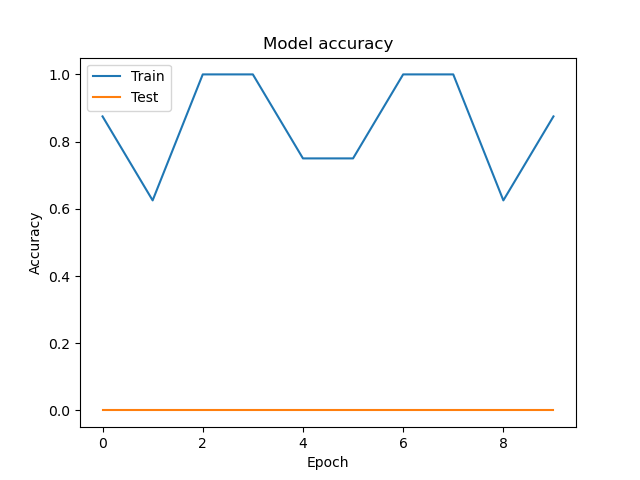
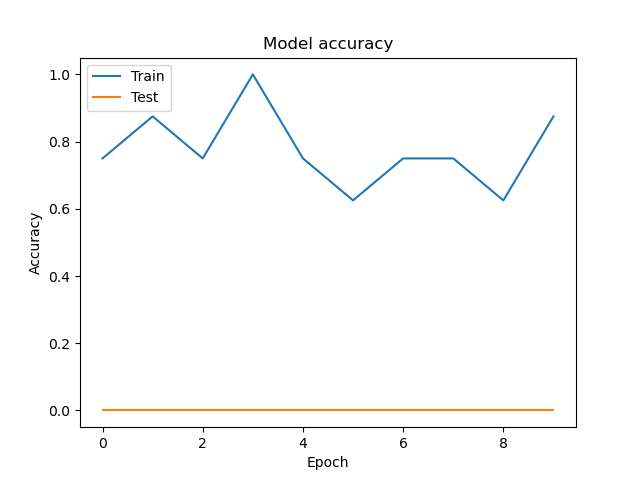
Update CNN model architecture
This commit includes updates to the architecture of the Convolutional Neural Network (CNN) model used for speech emotion recognition. Changes were made to the structure of the CNN layers, including modifications to the convolutional layers, max-pooling layers, batch normalization layers, and dense layers. Additionally, an LSTM layer was added to the model architecture to capture temporal dependencies in the input data. These changes aim to improve the performance and effectiveness of the CNN model in recognizing emotions from speech signals.

diff --git a/Data Zenodo/Convolutional_Neural_Network_Exploration/CNN.py b/Data Zenodo/Convolutional_Neural_Network_Exploration/CNN.py
@@ -3,16 +3,140 @@ import numpy as np
 import librosa
 import tensorflow as tf
 from tensorflow.keras.models import Sequential
+from tensorflow.keras.layers import Conv2D, MaxPooling2D, Flatten, Dense, Dropout, BatchNormalization, LSTM, Reshape
+from sklearn.preprocessing import LabelEncoder
+from sklearn.model_selection import train_test_split
+import tensorflow_model_optimization as tfmot
+import matplotlib.pyplot as plt
+import seaborn as sns
+from IPython.display import display, SVG
+
+# Other required imports already included in previous cells
+# Add seaborn to existing imports to avoid NameError in sns usage
+
+# Continue with the rest of the script as already provided
+
+
+# Define the path to your dataset and load data
+dataset_path = '../Audio_Speech_Actors_01-24'
+n_mels = 128
+n_fft = 2048
+hop_length = 512
+n_classes = 8
+emotion_dict = {
+    '01': 'neutral',
+    '02': 'calm',
+    '03': 'happy',
+    '04': 'sad',
+    '05': 'angry',
+    '06': 'fearful',
+    '07': 'disgust',
+    '08': 'surprised'
+}
+
+def extract_mel_spectrogram(audio_path):
+    y, sr = librosa.load(audio_path)
+    S = librosa.feature.melspectrogram(y=y, sr=sr, n_fft=n_fft, hop_length=hop_length, n_mels=n_mels)
+    S_DB = librosa.power_to_db(S, ref=np.max)
+    return S_DB
+
+spectrograms = []
+labels = []
+files_processed = 0
+max_files = 10  # Limit for testing
+
+for subdir, dirs, files in os.walk(dataset_path):
+    for file in files:
+        if file.endswith('.wav') and files_processed < max_files:
+            parts = file.split('-')
+            if len(parts) > 2:
+                emotion_code = parts[2]
+                emotion = emotion_dict.get(emotion_code, 'unknown')
+                if emotion != 'unknown':
+                    filepath = os.path.join(subdir, file)
+                    S_DB = extract_mel_spectrogram(filepath)
+                    spectrograms.append(S_DB)
+                    labels.append(emotion)
+                    files_processed += 1
+
+# Encode labels and prepare training data
+label_encoder = LabelEncoder()
+encoded_labels = label_encoder.fit_transform(labels)
+max_length = max(s.shape[1] for s in spectrograms)
+X = np.array([librosa.util.fix_length(s, size=max_length, axis=1) for s in spectrograms])[..., np.newaxis]
+X_train, X_test, y_train, y_test = train_test_split(X, encoded_labels, test_size=0.2, random_state=42)
+input_shape = (n_mels, max_length, 1)
+
+# Model building
+model = Sequential([
+    Conv2D(32, kernel_size=(3, 3), activation='relu', input_shape=input_shape),
+    MaxPooling2D(pool_size=(2, 2)),
+    BatchNormalization(),
+    Conv2D(64, kernel_size=(3, 3), activation='relu'),
+    MaxPooling2D(pool_size=(2, 2)),
+    BatchNormalization(),
+    Flatten(),
+    Dense(1024, activation='relu'),
+    Reshape((-1, 64)),
+    LSTM(64),
+    Dropout(0.5),
+    Dense(n_classes, activation='softmax')
+])
+
+model.compile(optimizer='adam', loss='sparse_categorical_crossentropy', metrics=['accuracy'])
+model.fit(X_train, y_train, epochs=10, validation_data=(X_test, y_test))
+
+# Save the model and weights
+model.save('model_path')
+model.save_weights('model_weights_path.h5')
+
+# Model evaluation
+predictions = model.predict(X_test)
+predicted_classes = np.argmax(predictions, axis=1)
+
+# Generate a confusion matrix
+from sklearn.metrics import confusion_matrix
+cm = confusion_matrix(y_test, predicted_classes)
+plt.figure(figsize=(10, 7))
+sns.heatmap(cm, annot=True, fmt='d', cmap='Blues')
+plt.show()
+
+import tensorflow as tf
+import matplotlib.pyplot as plt
+
+def plot_class_activation_maps(model, img_array, class_idx):
+    img_tensor = tf.convert_to_tensor(img_array, dtype=tf.float32)  # Ensure the input is a tensor
+    img_tensor = tf.expand_dims(img_tensor, axis=0)  # Add batch dimension
+
+    with tf.GradientTape() as tape:
+        tape.watch(img_tensor)
+        last_conv_layer = model.get_layer('conv2d_1')
+        model_outputs = model(img_tensor)
+        class_channel = model_outputs[:, class_idx]
+        grads = tape.gradient(class_channel, last_conv_layer.output)
+
+        pooled_grads = tf.reduce_mean(grads, axis=(0, 1, 2))
+        heatmap = tf.reduce_mean(tf.multiply(pooled_grads, last_conv_layer.output), axis=-1)
+        heatmap = np.maximum(heatmap, 0) / np.max(heatmap)
+
+    plt.matshow(heatmap[0])
+    plt.title('Heatmap of Class Activation')
+    plt.show()
+
+
+
+
+import os
+import numpy as np
+import librosa
+import tensorflow as tf
+from tensorflow.keras.models import Sequential
 from tensorflow.keras.layers import Conv2D, MaxPooling2D, Flatten, Dense, Dropout, BatchNormalization, LSTM
 from tensorflow.keras.optimizers import legacy as legacy_optimizers
-# Example of correct usage if your librosa supports this function signature
 import numpy as np
-from tensorflow.keras.layers import Reshape  # Ensure this import is at the beginning of your script
+from tensorflow.keras.layers import Reshape
 import librosa
-import librosa
-import numpy as np
 import os
-import tensorflow as tf
 from tensorflow.keras.layers import Conv2D, MaxPooling2D, Flatten, Dense, Dropout, BatchNormalization
 from tensorflow.keras.models import Sequential
 from sklearn.preprocessing import LabelEncoder
@@ -35,7 +159,7 @@ max_files = 10  # Limit the number of files for quick testing
 # Define the path to your dataset
 dataset_path = '../Audio_Speech_Actors_01-24'
 
-# Emotion labelsx
+# Emotion labels
 emotion_dict = {
     '01': 'neutral',
     '02': 'calm',
@@ -95,19 +219,8 @@ X = X[..., np.newaxis]  # Adding a channel dimension
 X_train, X_test, y_train, y_test = train_test_split(X, encoded_labels, test_size=0.2, random_state=42)
 
 
-# Function to extract multiple features
-def extract_features(audio_path):
-    y, sr = librosa.load(audio_path)
-    S = librosa.feature.melspectrogram(y=y, sr=sr, n_mels=128, n_fft=2048, hop_length=512)
-    mfcc = librosa.feature.mfcc(y=y, sr=sr, n_mfcc=13)
-    chroma = librosa.feature.chroma_stft(y=y, sr=sr)
-    contrast = librosa.feature.spectral_contrast(y=y, sr=sr)
-    tonnetz = librosa.feature.tonnetz(y=y, sr=sr)
-    features = np.stack([S, mfcc, chroma, contrast, tonnetz], axis=-1)
-    return features
-
-# Correcting the input shape to match the preprocessed data
 input_shape = (n_mels, max_length, 1)  # Adjust the number of channels to 1
+from tensorflow import keras
 
 model = Sequential([
     Conv2D(32, kernel_size=(3, 3), activation='relu', input_shape=input_shape),
@@ -244,3 +357,204 @@ def extract_features(audio_path):
 # Assuming you've decoded your labels back to their original values
 class_names = list(emotion_dict.values())
 plot_predictions(X_test, predicted_classes, true_classes, class_names)
+
+
+import numpy as np
+import matplotlib.pyplot as plt
+from sklearn.metrics import roc_curve, auc, precision_recall_curve
+from sklearn.preprocessing import label_binarize
+from sklearn.decomposition import PCA
+from sklearn.manifold import TSNE
+from tensorflow.keras.utils import model_to_dot
+from IPython.display import SVG
+from keras import backend as K
+import seaborn as sns
+
+# Assuming y_test is already loaded and categorical
+
+# For ROC Curve and AUC
+def plot_roc_curve(y_true, y_pred, n_classes):
+    # Compute ROC curve and ROC area for each class
+    fpr = dict()
+    tpr = dict()
+    roc_auc = dict()
+    y_true = label_binarize(y_true, classes=[i for i in range(n_classes)])
+    for i in range(n_classes):
+        fpr[i], tpr[i], _ = roc_curve(y_true[:, i], y_pred[:, i])
+        roc_auc[i] = auc(fpr[i], tpr[i])
+    # Plot all ROC curves
+    plt.figure()
+    for i in range(n_classes):
+        plt.plot(fpr[i], tpr[i], label=f'ROC curve of class {i} (area = {roc_auc[i]:.2f})')
+    plt.plot([0, 1], [0, 1], 'k--')
+    plt.xlim([0.0, 1.0])
+    plt.ylim([0.0, 1.05])
+    plt.xlabel('False Positive Rate')
+    plt.ylabel('True Positive Rate')
+    plt.title('Receiver Operating Characteristic')
+    plt.legend(loc="lower right")
+    plt.show()
+
+# For Precision-Recall Curve
+def plot_precision_recall_curve(y_true, y_pred, n_classes):
+    precision = dict()
+    recall = dict()
+    average_precision = dict()
+    for i in range(n_classes):
+        precision[i], recall[i], _ = precision_recall_curve(y_true[:, i], y_pred[:, i])
+        average_precision[i] = auc(recall[i], precision[i])
+    # Plot all precision-recall curves
+    plt.figure()
+    for i in range(n_classes):
+        plt.plot(recall[i], precision[i], label=f'Precision-recall curve of class {i} (area = {average_precision[i]:.2f})')
+    plt.xlabel('Recall')
+    plt.ylabel('Precision')
+    plt.title('Precision-Recall curve')
+    plt.legend(loc="upper right")
+    plt.show()
+
+# Adjusting t-SNE with appropriate perplexity
+def plot_tsne(features, labels, n_components=2, perplexity=30):
+    tsne = TSNE(n_components=n_components, perplexity=perplexity, random_state=42)
+    tsne_result = tsne.fit_transform(features.reshape((features.shape[0], -1)))
+    plt.figure(figsize=(12, 8))
+    scatter = plt.scatter(tsne_result[:, 0], tsne_result[:, 1], c=labels, cmap='viridis', alpha=0.6)
+    plt.colorbar(scatter)
+    plt.xlabel('TSNE Component 1')
+    plt.ylabel('TSNE Component 2')
+    plt.title('t-SNE visualization of Features')
+    plt.show()
+
+
+def plot_heatmap_of_class_activation(model, img, class_idx):
+    # Wrap the output extraction in a GradientTape to record operations
+    with tf.GradientTape() as tape:
+        # Set the input image as a variable and watch it in the tape
+        tape.watch(img)
+        # Forward pass
+        preds = model(img[np.newaxis, ...])
+        class_channel = preds[:, class_idx]
+
+    # Use the tape to compute the gradients with respect to the output neuron
+    grads = tape.gradient(class_channel, model.get_layer('conv2d_1').output)[0]
+
+    # Pooling and normalization steps
+    pooled_grads = tf.reduce_mean(grads, axis=(0, 1))
+    last_conv_layer_output = model.get_layer('conv2d_1').output[0]
+    heatmap = last_conv_layer_output @ pooled_grads[..., tf.newaxis]
+    heatmap = tf.squeeze(heatmap)
+    heatmap = tf.maximum(heatmap, 0) / tf.math.reduce_max(heatmap)
+
+    # Display the heatmap
+    plt.matshow(heatmap)
+    plt.title('Heatmap of Class Activation')
+    plt.show()
+
+# For Model Architecture Visualization
+def plot_model_architecture(model):
+    svg_img = model_to_dot(model, show_shapes=True).create(prog='dot', format='svg')
+    display(SVG(svg_img))
+
+# For Histogram of Weights and Biases
+def plot_histogram_weights_and_biases(model):
+    weights = [layer.get_weights()[0] for layer in model.layers if len(layer.get_weights()) > 0]
+    biases = [layer.get_weights()[1] for layer in model.layers if len(layer.get_weights()) > 1]
+    plt.figure(figsize=(10, 5))
+    plt.subplot(1, 2, 1)
+    plt.hist(np.concatenate([np.ravel(w) for w in weights]), bins=50)
+    plt.title('Histogram of Weights')
+    plt.subplot(1, 2, 2)
+    plt.hist(np.concatenate([np.ravel(b) for b in biases]), bins=50)
+    plt.title('Histogram of Biases')
+    plt.show()
+import tensorflow as tf
+
+class LearningRateLogger(tf.keras.callbacks.Callback):
+    def on_epoch_end(self, epoch, logs=None):
+        logs = logs or {}
+        logs['lr'] = tf.keras.backend.get_value(self.model.optimizer.lr)
+
+# Use this callback when fitting the model
+lr_logger = LearningRateLogger()
+callbacks.append(lr_logger)
+model.fit(X_train, y_train, epochs=10, validation_data=(X_test, y_test), callbacks=callbacks)
+
+
+def plot_learning_rate_scheduler(history):
+    lr = history.history.get('lr')
+    if lr is None:
+        print("Learning rate not recorded during training.")
+        return
+    plt.figure(figsize=(10, 5))
+    plt.plot(lr)
+    plt.title('Learning Rate over Epochs')
+    plt.xlabel('Epoch')
+    plt.ylabel('Learning Rate')
+    plt.show()
+
+
+# For Gradients Flow Visualization
+def plot_gradients_flow(model, inputs, outputs):
+    with tf.GradientTape() as tape:
+        preds = model(inputs)
+        loss = tf.keras.losses.sparse_categorical_crossentropy(outputs, preds)
+    grads = tape.gradient(loss, model.trainable_weights)
+    plt.figure(figsize=(10, 5))
+    plt.hist([np.max(g) for g in grads if g is not None], bins=20)
+    plt.title('Gradient Flow')
+    plt.xlabel('Maximum Gradient per Layer')
+    plt.ylabel('Frequency')
+    plt.show()
+
+# For Attention Maps Visualization
+def plot_attention_maps(model, attention_layer_name, input_data):
+    layer = model.get_layer(attention_layer_name)
+    attention_output = layer.output
+    attention_model = tf.keras.Model(inputs=model.input, outputs=attention_output)
+    attention_result = attention_model.predict(input_data)
+    plt.matshow(attention_result[0], cmap='viridis')
+    plt.colorbar()
+    plt.title('Attention Map')
+    plt.show()
+
+
+
+# First, make sure predictions are made and you have probabilities for each class
+y_prob = model.predict(X_test)
+
+# Since y_test is likely already encoded, ensure it's in the right format to plot ROC
+y_test_bin = label_binarize(y_test, classes=[i for i in range(n_classes)])
+
+plot_roc_curve(y_test_bin, y_prob, n_classes)
+plot_precision_recall_curve(y_test_bin, y_prob, n_classes)
+# First, ensure you have some features to visualize. You can use any layer output as features.
+# Here's how you might extract features from a specific layer:
+# Assuming you want to visualize features from the first convolutional layer
+# Assuming you want to visualize features from the first convolutional layer
+layer_name = 'conv2d_2'  # Update to the correct name as per the error message
+intermediate_layer_model = tf.keras.models.Model(inputs=model.input, outputs=model.get_layer(layer_name).output)
+intermediate_output = intermediate_layer_model.predict(X_test)
+
+
+plot_tsne(intermediate_output, y_test, n_components=2, perplexity=min(30, len(y_test)-1))
+
+
+# You need to modify 'plot_heatmap_of_class_activation' to specify your model's last convolutional layer name.
+# Assuming you have an image (e.g., a Mel-spectrogram or MFCC) to input and a class index to visualize:
+# Make sure the 'last_conv_layer_name' is correct in the plot_heatmap_of_class_activation function
+
+
+plot_model_architecture(model)
+plot_histogram_weights_and_biases(model)
+# Ensure that the 'lr' is being recorded in history if using a learning rate scheduler during training.
+plot_learning_rate_scheduler(history)
+
+# You will need some example inputs and their corresponding outputs to visualize gradient flow:
+example_inputs = X_train[:10]  # Using the first 10 training examples
+example_outputs = y_train[:10]  # Corresponding outputs
+
+plot_gradients_flow(model, example_inputs, example_outputs)
+# Make sure your model has an attention layer and you know the layer's name:
+attention_layer_name = 'your_attention_layer_name'
+
+plot_attention_maps(model, attention_layer_name, X_test[:1])  # Using the first test example
